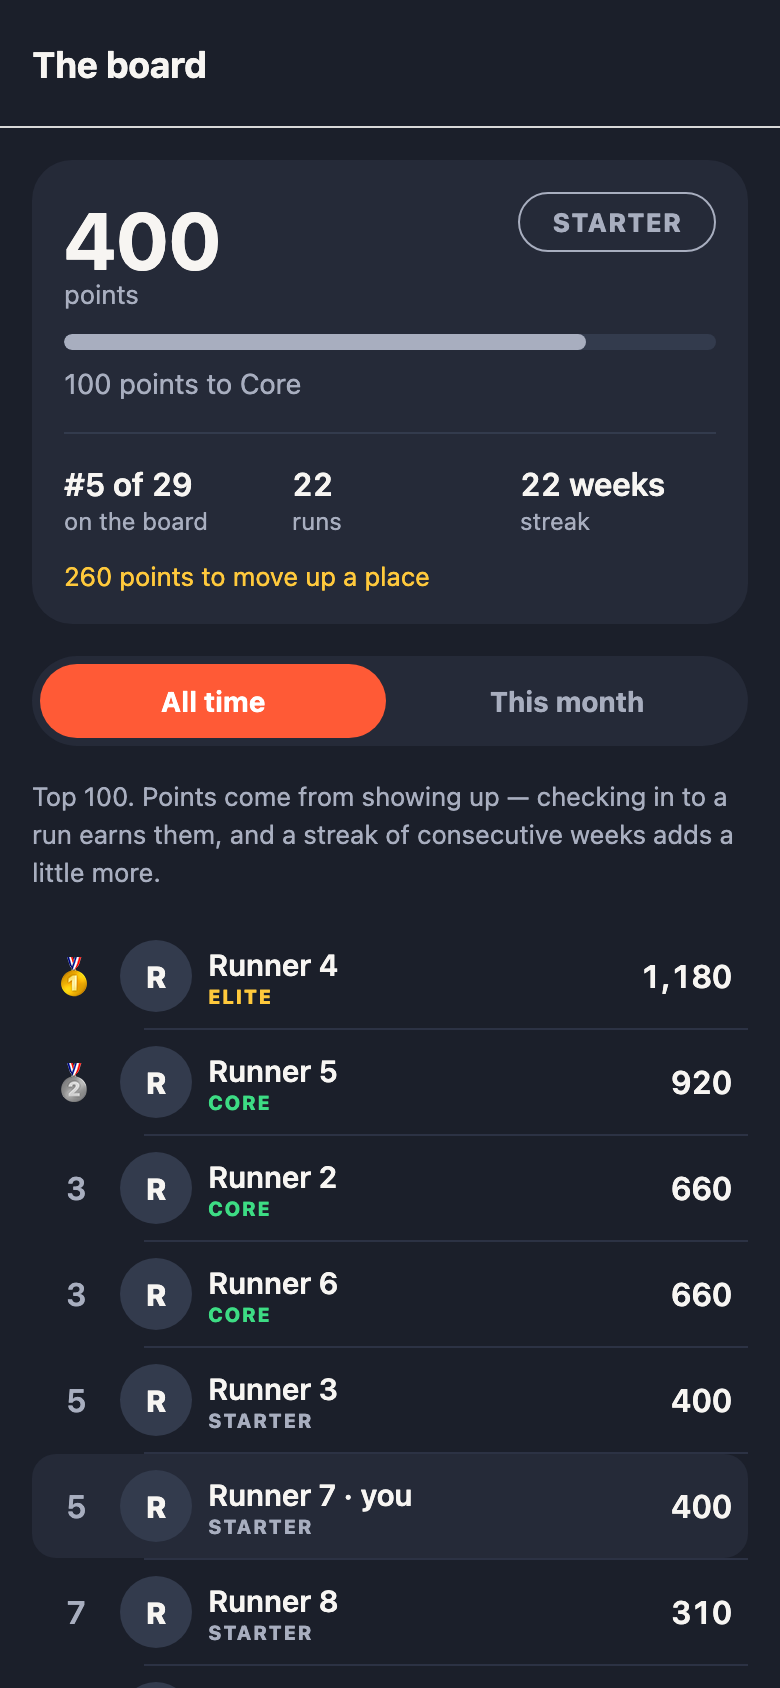
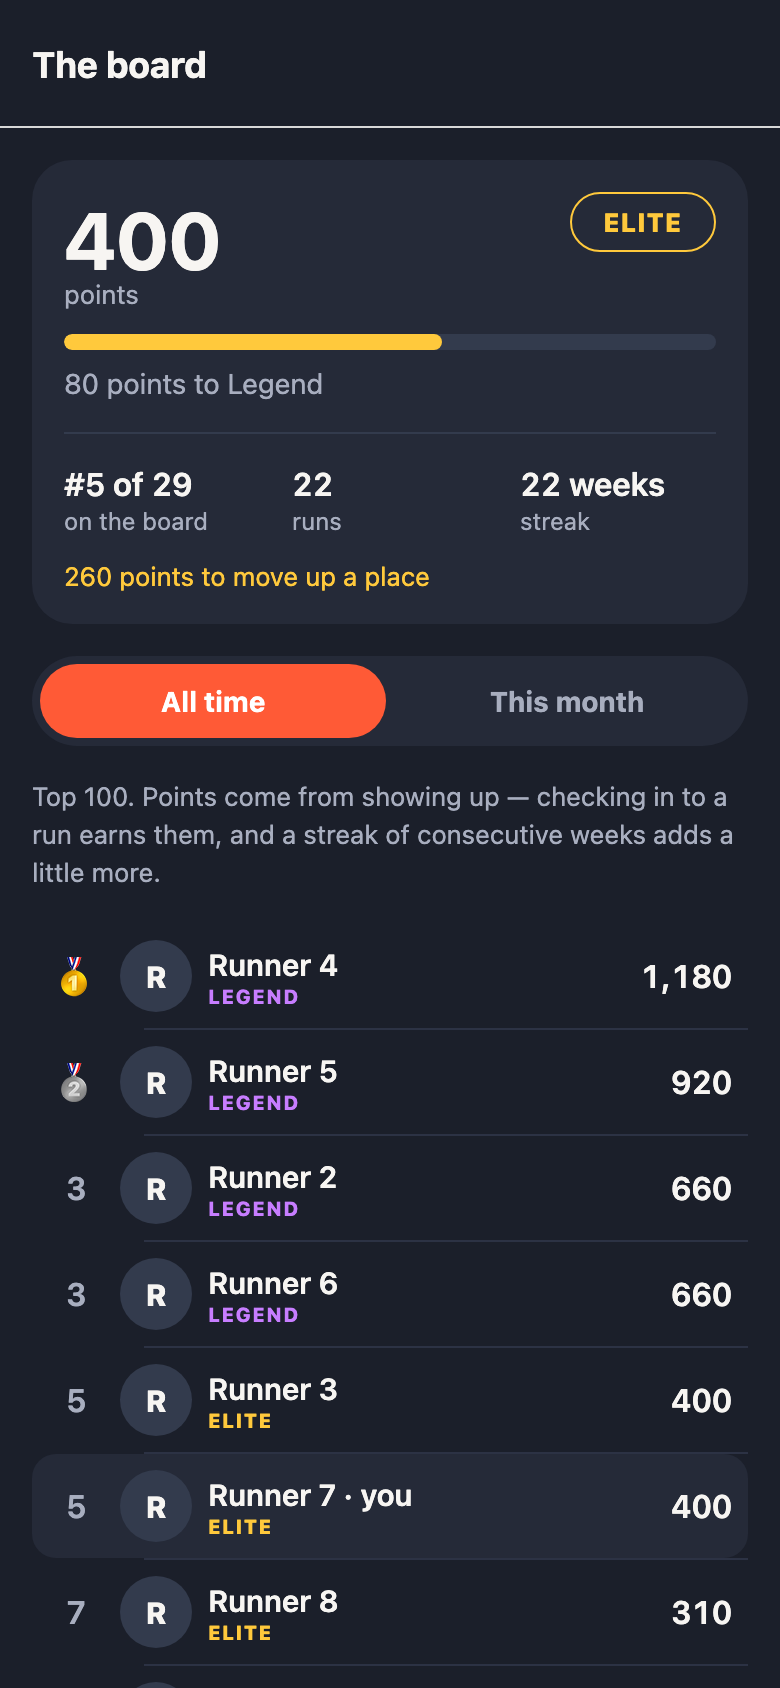
Refresh the README against what the app actually is now
The gallery still showed three tiers and none of Phase 2's screens, and the
friend-code paragraph described a rule that has changed twice since. A README
showing an interface that no longer exists is worse than one showing none.

Adds the chest, the profile with its badge grid, and the organiser's members
directory to the capture script, so all three regenerate with the rest rather
than being hand-shot once and going stale. The chest gets its own browser
context: claiming it is a one-way door, and capturing it in the main session
would consume the seed's only demoable one before the other shots were taken.

Also records the silent-failure bug class in the testing section. Four features
shipped with a platform call that ran cleanly and told nobody anything, and all
four were found by using the app rather than by testing it — which is the part
worth writing down.

diff --git a/README.md b/README.md
@@ -30,15 +30,25 @@ WhatsApp, Instagram and word of mouth. This replaces that.
 
 | The board | The friend code |
 |---|---|
-| <img src="docs/screenshots/app-leaderboard.png" width="330" alt="Leaderboard showing the member's own points, tier and streak above the top 100"> | <img src="docs/screenshots/app-friend-code.png" width="330" alt="A friend QR code with a three-minute countdown beneath it"> |
+| <img src="docs/screenshots/app-leaderboard.png" width="330" alt="Leaderboard showing the member's own points, tier and streak above the top 100"> | <img src="docs/screenshots/app-friend-code.png" width="330" alt="A friend code shown as a QR and as eight readable characters, with a countdown"> |
 
-<p align="center"><em>Your own standing sits above the board, because most of the club will never be in the top 100. The countdown under the friend code is the whole safety argument: three minutes, one scan.</em></p>
+<p align="center"><em>Your own standing sits above the board, because most of the club will never be in the top 100. The friend code is shown twice — as a square to scan and as eight characters to read aloud — and rolls every sixty seconds, which is the entire reason "in person only" is true rather than merely intended.</em></p>
+
+| Reaching a tier | Your badges |
+|---|---|
+| <img src="docs/screenshots/app-chest.png" width="330" alt="A chest opening to reveal the Competitor badge and its reward"> | <img src="docs/screenshots/app-profile.png" width="330" alt="Profile showing points, tier, streak and the badge grid"> |
+
+<p align="center"><em>Crossing a tier is recorded server-side as an event, so the celebration survives a reinstall and cannot fire twice across two phones. It opens on a tap — this arrives thirty seconds after checking in, when the member is standing in a car park in the cold.</em></p>
 
 **The organiser's console** — no developer required, which is the whole point of it.
 
 <img src="docs/screenshots/admin-editor.png" width="820" alt="Run editor with a map picker showing the check-in radius">
 
 <img src="docs/screenshots/admin-runs.png" width="820" alt="Run list with attendance counts">
+
+<img src="docs/screenshots/admin-members.png" width="820" alt="Members directory with points, tiers and last run">
+
+<p align="center"><em>The one screen in MVMNT that lists the whole membership — organiser-only, and a <code>SECURITY DEFINER</code> function rather than a relaxed policy. Members still read exactly one profile: their own.</em></p>
 
 ---
 
@@ -124,11 +134,22 @@ version would have cost usefulness without buying privacy. It is a third
 `SECURITY DEFINER` function that refuses anyone who is not an admin; the members'
 own `profiles` policy is untouched and still returns exactly one row.
 
-**Being added as a friend requires being there.** The code behind the QR lives
-three minutes and burns on first scan, so a screenshot forwarded to somebody who
-was not standing there is dead on arrival. That property is invisible in the UI,
-so [`07_friends.sql`](supabase/tests/07_friends.sql) tests each half of it
-directly — expiry, single use, revocation, and organiser moderation.
+**Being added as a friend requires being there.** The code lives sixty seconds,
+burns on first scan, and each new one retires the last — so a screenshot
+forwarded to somebody who was not standing there is dead on arrival. It is eight
+characters rather than thirty-two because the fallback the whole feature depends
+on is one person reading it aloud when a camera will not focus, and 40 bits
+against a one-minute single-use window is not a practical target. None of that
+is visible in the UI, so [`07_friends.sql`](supabase/tests/07_friends.sql) tests
+each property directly.
+
+**Points can go down.** Reaching Legend takes six months of not missing a
+Saturday — a number derived from the scoring rules rather than picked, and
+asserted in a test so changing either cannot silently move the ladder. That
+ceiling only works because absence costs: the first missed run is free, and from
+the second consecutive one a member loses exactly what attending earns, never
+below zero. Without it every regular is Legend forever by their second season
+and the top rung measures nothing.
 
 ---
 
@@ -177,9 +198,18 @@ npm run db:test
 ```
 
 Seven suites over attendance and waitlist ordering, geofenced check-in, every RLS
-policy, notification idempotency, retention and erasure, the points/streak/badge
-rules, and the friend-code safety properties. They run inside transactions and
-roll back, so they are safe against a seeded database.
+policy, notification idempotency, retention and erasure, the points, streak,
+badge, tier and decay rules, organiser role changes, and the friend-code safety
+properties. They run inside transactions and roll back, so they are safe against
+a seeded database.
+
+**A recurring bug class worth naming:** four separate features shipped with a
+platform call that failed silently — `Alert` (`static alert() {}` on web),
+`window.confirm` (returns `false` when a browser suppresses it),
+`navigator.share` (undefined nearly everywhere), and `flush().catch(() => {})`
+on the offline check-in queue. Each looked correct, ran without error, and told
+nobody anything. Every one of them is now required to report an outcome, and the
+tests assert that the member was told rather than that the function ran.
 
 **RLS cannot be tested by clicking around** — the UI only ever asks for data it
 is supposed to have, so a policy hole is invisible from the front end and
